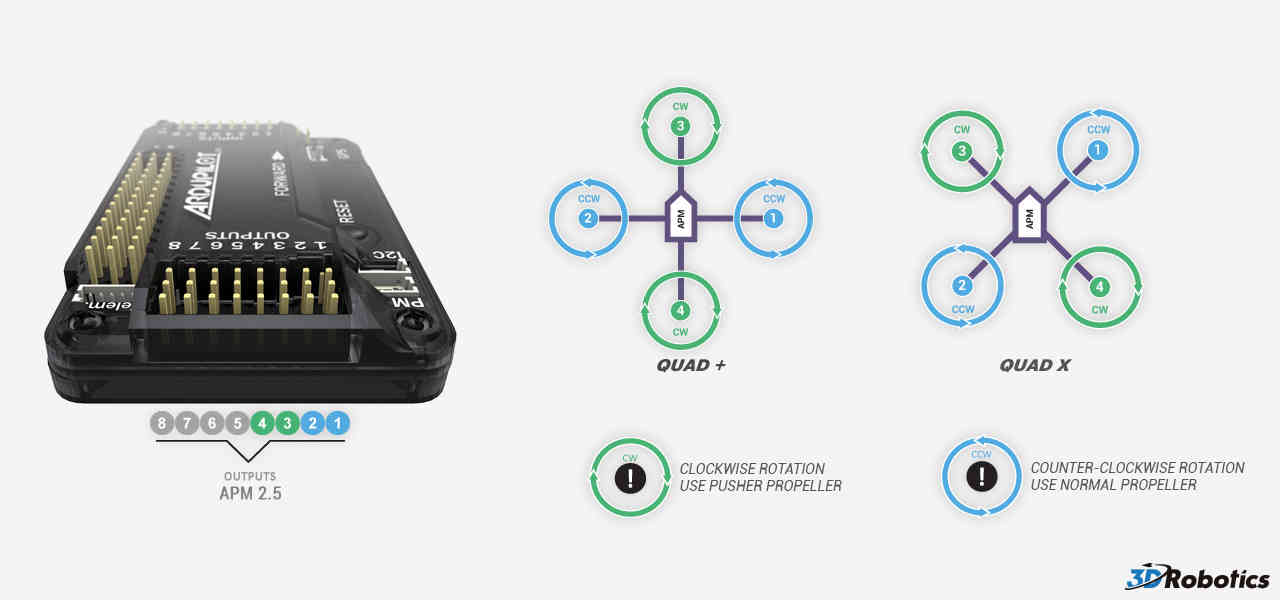
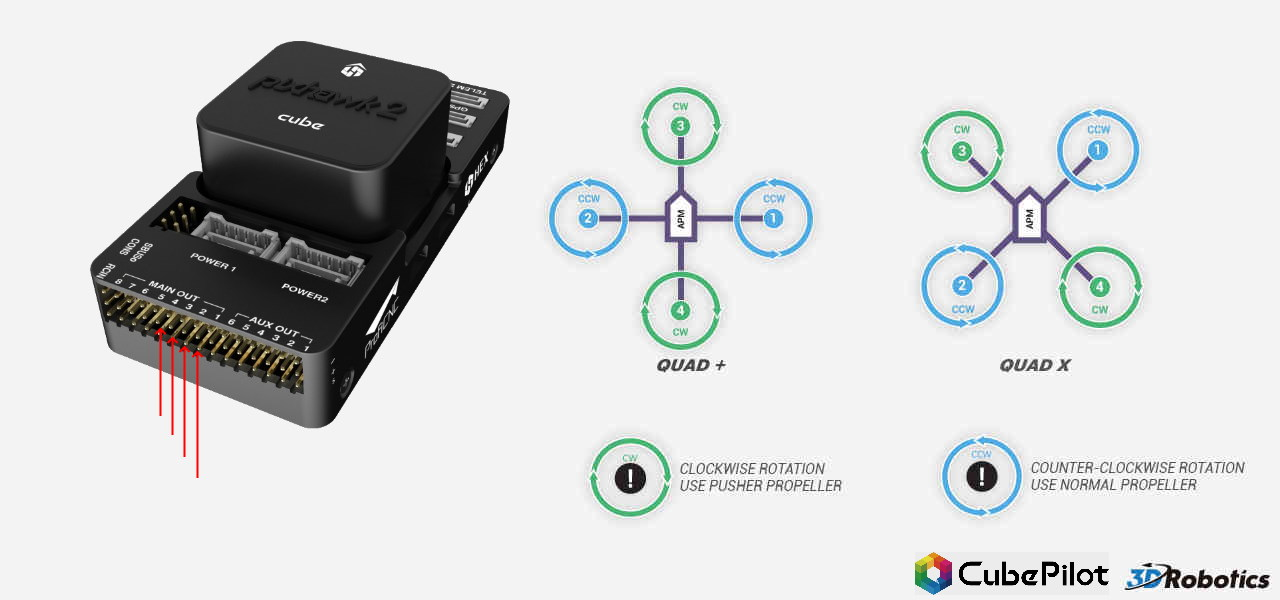
Update copter quadcopter wiring diagram and text

Changed region(s): [[0.0312, 0.06, 0.4062, 0.84], [0.6875, 0.9, 0.875, 0.99]]

diff --git a/copter/source/docs/advanced-pixhawk-quadcopter-wiring-chart.rst b/copter/source/docs/advanced-pixhawk-quadcopter-wiring-chart.rst
@@ -5,7 +5,7 @@ Advanced Pixhawk Quadcopter Wiring Chart
 ========================================
 
 Jethro Hazelhurst produced this magnificent Pixhawk wiring chart for a
-Quadcopter for us.
+Quadcopter for us. (Other autopilots will be wired similarly)
 
 (Control Scroll wheel will let you zoom in on the image below!)
 
@@ -17,19 +17,18 @@ This chart Illustrates a quadcopter with a variety of options.
 
 -  A 4 in 1 ESC is used instead of individual ESCs reducing EMF and
    allowing a neater installation and no power distribution board.
--  Actual Motor number to Quadcopter frame location is shown below and
-   will require appropriate signal and motor wire routing.
+-  Default actual Motor number to Quadcopter frame location is shown below and
+   will require appropriate signal and motor wire routing. The assignment of outputs to motor numbers can be changed by adjusting the ``SERVOx_FUNCTION`` values for each individual "x" output of the autopilot. Note that the AUX1-6 outputs shown below correspond to SERVO9 - SERVO14, respectively.
 
 .. image:: ../images/APM_2_5_MOTORS_QUAD_enc1.jpg
     :target: ../_images/APM_2_5_MOTORS_QUAD_enc1.jpg
 
--  A 3DR PPM-Sum encoder with conventional receiver is illustrated, A
-   PPM-Sum receiver could be used instead.
+-  A 3DR PPM-Sum encoder with conventional receiver is illustrated. Any ArduPilot compatible receiver can be used. See :ref:`common-rc-systems` for more options.
 -  Generally a 3S or 4S LiPo battery is appropriate for a Quadcopter and
    the XT60 connectors shown are a reliable choice.
 -  An optional battery warning indicator can provide quick battery
    status and provide an audible warning when nearby.
--  Optional 3DR telemetry radios may be connected to your Pixhawk and
+-  Optional 3DR telemetry radios may be connected to your autopilot and
    tablet or laptop to permit real time monitoring and operation.
 
    -  A (GCS (Ground Control Station) program like Mission Planner,
@@ -59,4 +58,4 @@ This chart Illustrates a quadcopter with a variety of options.
       display.
 
 -  The telemetry, camera, gimbal, FPV and OSD options mentioned above
-   can be combined as you wish for your copter but start simple.
+   can be combined as you wish for your copter, but start simple.
